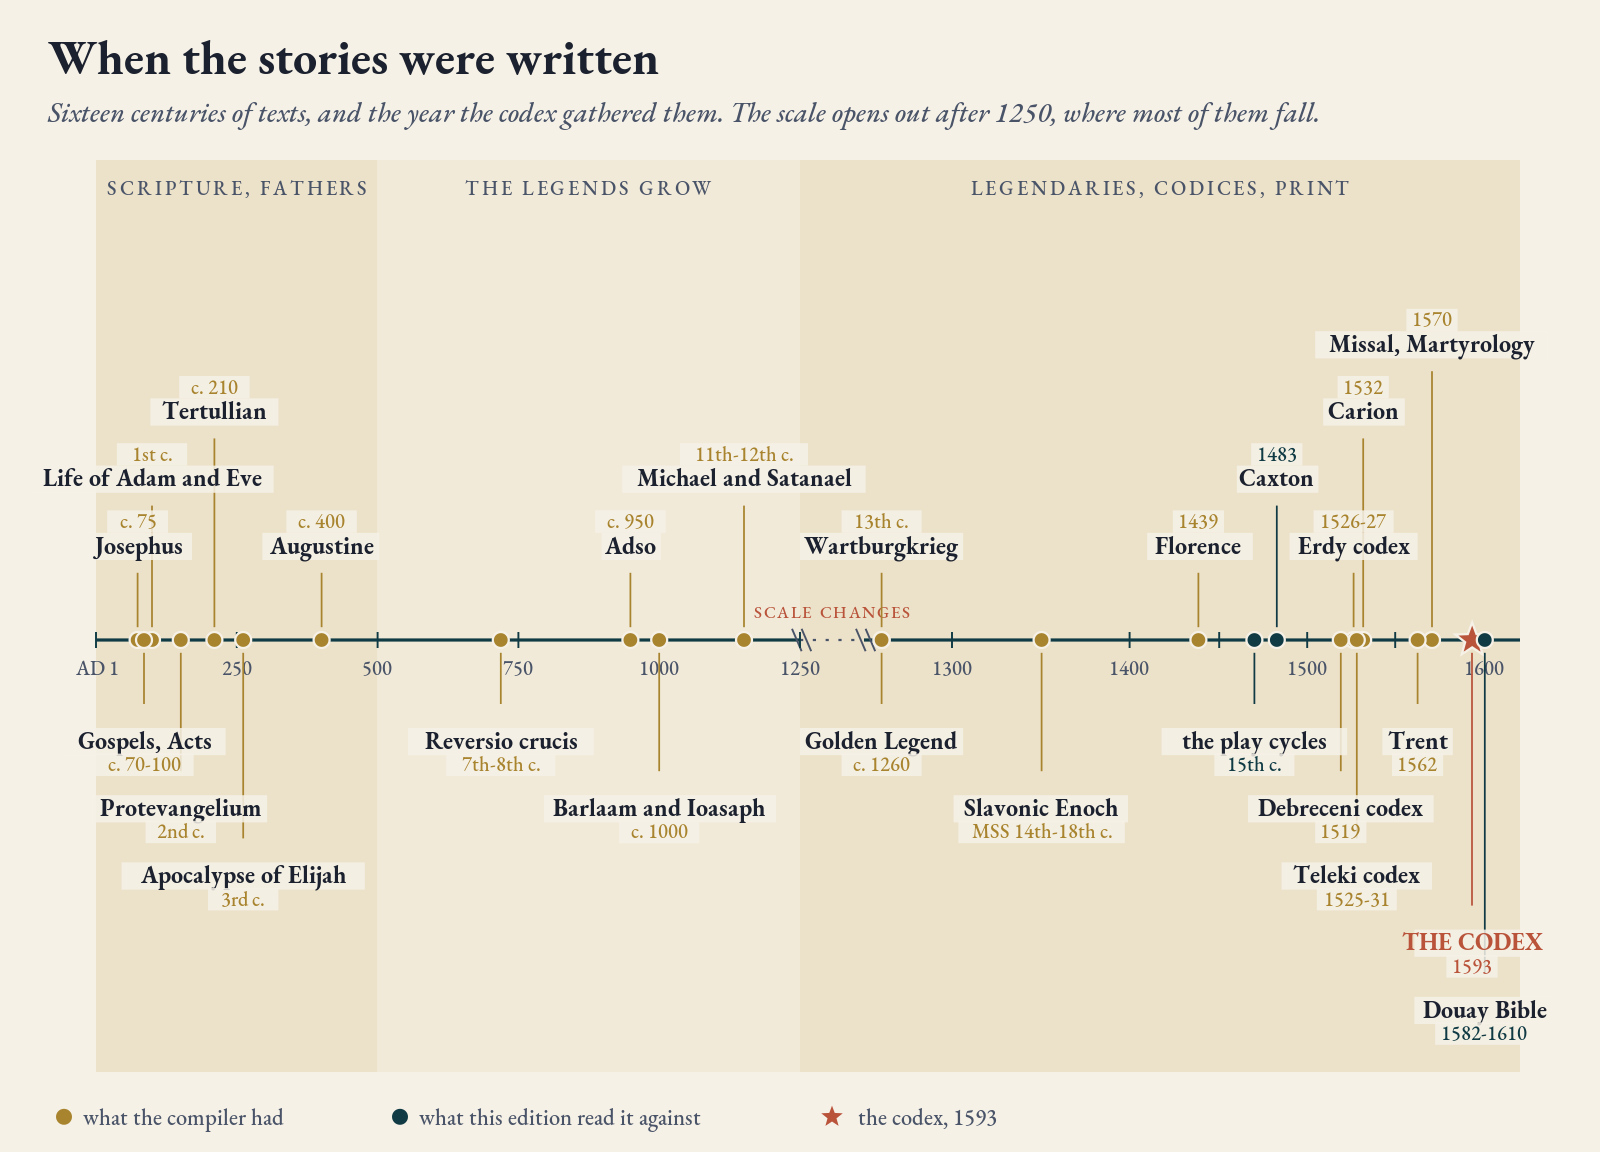
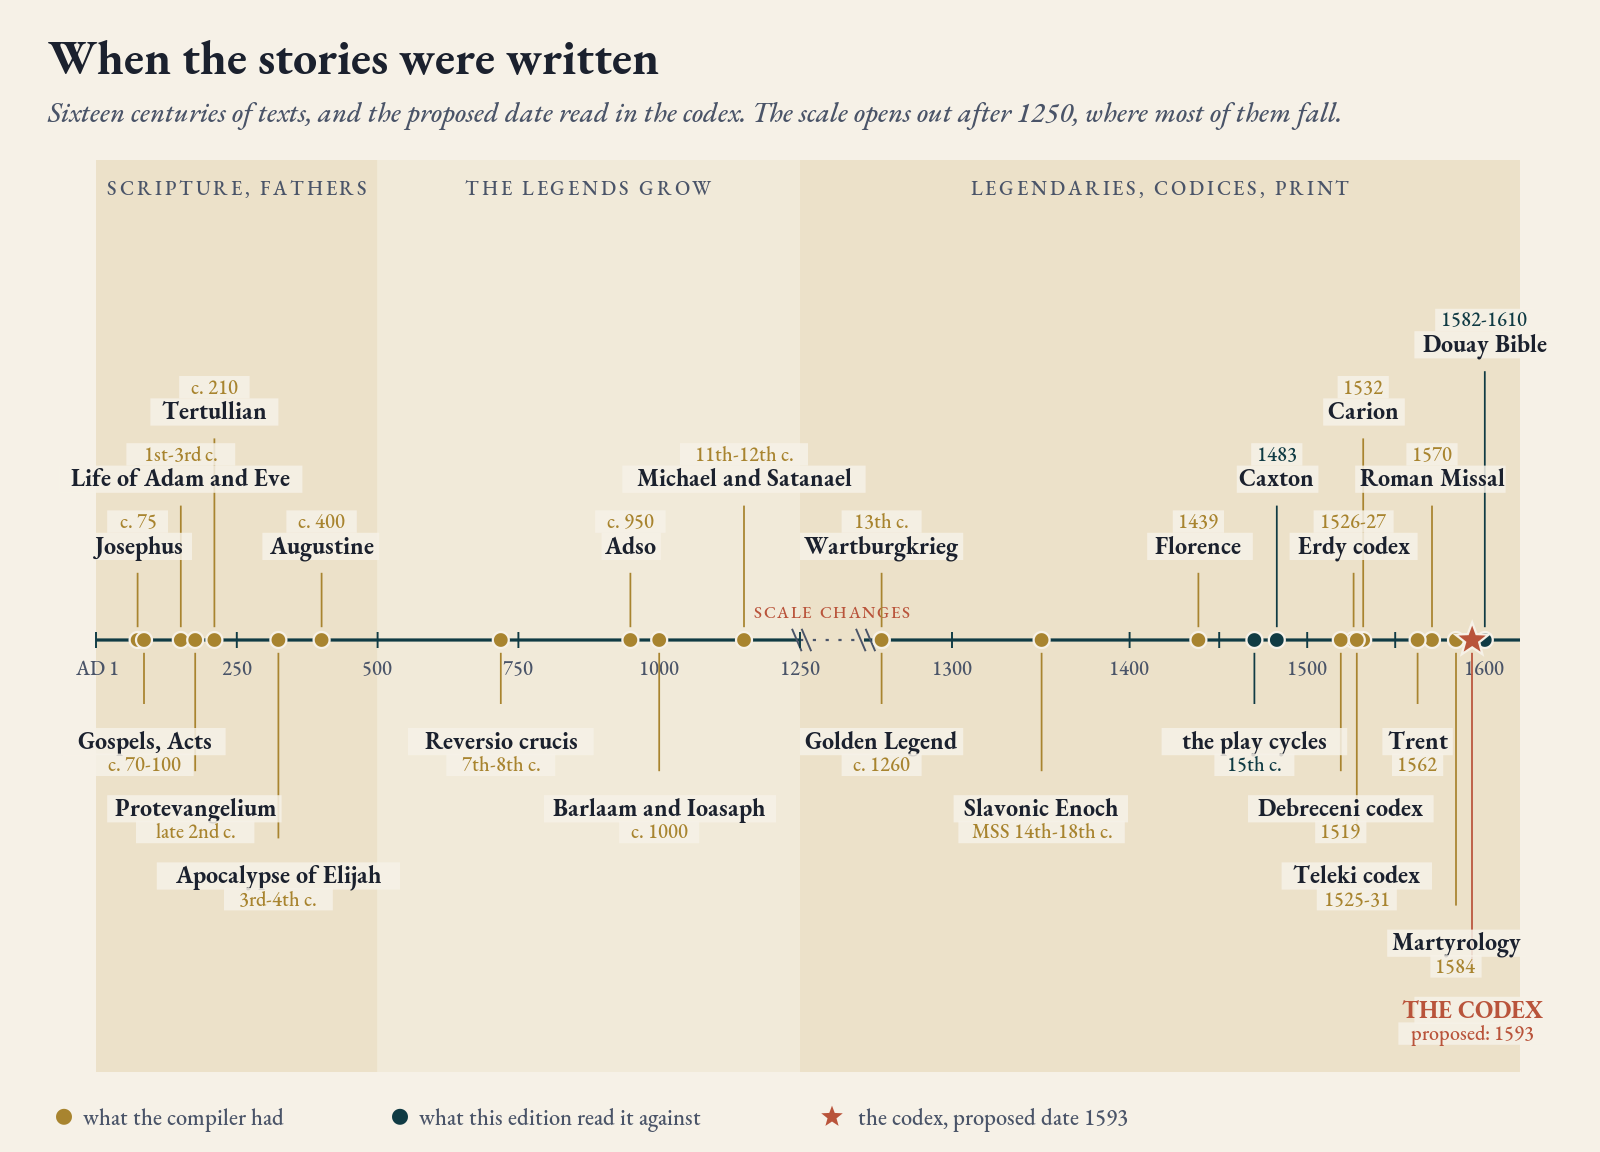
Atlas: the 1593 date marked as Kiraly and Tokai's proposed reading throughout, disputed origins left unpinned, Missal and Martyrology given their own dates, Debreceni codex placed at Obuda; ktatlascheck gates each against regression
Written by Codex.

diff --git a/harness/ktatlas.py b/harness/ktatlas.py
@@ -9,11 +9,11 @@ out of, drawn from atlas.json.
 Five plates, each an SVG with a viewBox only, so the site scales it to the
 column, and a PNG proof at 1600 wide for image search and for looking at:
 
-    hungary-1593      the kingdom in three parts in the year the codex counts to
+    hungary-1593      the kingdom in three parts at the proposed date read in the codex
     tongues           the languages and faiths around Rohonc, the presses, the scripts
     sources-map       where the books the codex is compiled from were written,
                       and where the witnesses this edition read it against come from
-    sources-timeline  when those texts were written, ending at 1593
+    sources-timeline  when those texts were written, ending at the proposed date 1593
     codex-timeline    the codex's own history, 1530s to now, with the attempts to read it
 
 Idiom: the Plaintext Classics infographic plates (parchment, EB Garamond, sea /
@@ -96,7 +96,7 @@ def glyph_row(sg, items, x, y, h, color=INK, gap=14, size=13):
 # ---------------------------------------------------------------- plate 1
 def plate_hungary(d):
     m = M.MapPlate(HU_BBOX, W=1000, H=780, pad_top=92, name="hu",
-                   title="Hungary in 1593, the year the codex counts to",
+                   title="Hungary in 1593, on the proposed reading",
                    subtitle="A kingdom in three parts, and the town the book is named for in its Habsburg west. Borders approximate.")
     m.draw_land(tol=0.015)
     m.draw_lakes()
@@ -128,10 +128,10 @@ def plate_hungary(d):
     m.label(17.5, 45.75, "Drava", italic=True, size=14, color="#5f8791", anchor="middle")
     m.label(17.75, 46.75, "Balaton", italic=True, size=13, color="#5f8791", anchor="middle")
     m.label(13.0, 44.4, "Adriatic Sea", italic=True, size=17, color=SEA, anchor="middle")
-    m.raw(ev_open("1593", "1593", "The codex's last leaves count one thousand five hundred and sixty years from the Ascension, which is 1593. That summer the Long Turkish War began between the Habsburgs and the Ottomans, and it ran until 1606. Rohonc lay about a hundred kilometres from the frontier at Kanizsa."))
+    m.raw(ev_open("The proposed reading: 1593", "1593", "On Kiraly and Tokai's reading, one of the codex's last leaves counts one thousand five hundred and sixty years from the Ascension, giving 1593. That summer the Long Turkish War began between the Habsburgs and the Ottomans, and it ran until 1606. Rohonc lay about a hundred kilometres from the frontier at Kanizsa."))
     m.callout(630, 100, 350, "1593", [
-        "The codex's last leaves count 1,560 years",
-        "from the Ascension: 1593.",
+        "On Kiraly and Tokai's reading, a last leaf",
+        "counts 1,560 years from the Ascension: 1593.",
         "That summer the Long Turkish War began",
         "(1593-1606). Rohonc lay about a hundred",
         "kilometres from the frontier at Kanizsa."], size=15.5)
@@ -146,7 +146,7 @@ def plate_tongues(d, sg):
     t = d["tongues"]
     m = M.MapPlate(HU_BBOX, W=1000, H=800, pad_top=92, name="tg",
                    title="The tongues and faiths around Rohonc, c. 1600",
-                   subtitle="Seven languages, six confessions, three scripts, and one book in a script of its own. Areas indicative, not surveyed.")
+                   subtitle="Seven mapped vernaculars, six confessions, three regional scripts, and one book in a script of its own. Areas indicative, not surveyed.")
     m.draw_land(tol=0.015)
     m.draw_lakes()
     m.draw_rivers(names=("Danube", "Tisza", "Tisa", "Drava"), width=1.6)
@@ -178,7 +178,7 @@ def plate_tongues(d, sg):
     bx, by, bw = 596, 98, 380
     m.raw(f'<rect x="{bx}" y="{by}" width="{bw}" height="150" rx="6" fill="{PARCH}" stroke="{TERRA}" stroke-width="1.5" opacity="0.97"/>')
     m.text_xy(bx + 14, by + 24, "THE CODEX'S OWN SCRIPT", size=13.5, color=TERRA, weight=700, spacing=1.6)
-    m.text_xy(bx + 14, by + 44, "Several hundred signs, mostly one sign to a word, written right to left.", size=13, color=INK)
+    m.text_xy(bx + 14, by + 44, "Several hundred signs; code units mostly stand for words; right to left.", size=13, color=INK)
     frag, w = glyph_row(sg, t["glyphs"], bx + 18, by + 54, 40, gap=22, size=12.5)
     m.raw(frag)
     m.text_xy(bx + bw - 12, by + 140, "signs after Kiraly and Tokai's font; glosses theirs", size=10.5, color=SOFT, italic=True, anchor="end")
@@ -192,7 +192,7 @@ def plate_tongues(d, sg):
     m.raw("</g>")
     # key: the confessions, then the scripts
     m.key([(f, c) for f, c in FAITH.items()], x=30, y=748, size=13.5, swatch="line")
-    m.text_xy(30, 771, "Scripts in use: Latin letters for all seven tongues; Cyrillic for Serbian, Romanian and Church Slavonic; "
+    m.text_xy(30, 771, "Scripts represented here: Latin letters across the seven mapped vernaculars; Cyrillic for Serbian, Romanian and Church Slavonic; "
                        "Arabic letters for Ottoman Turkish; and the codex's own signs, in one book.", size=12, color=SOFT)
     return m.render(credit=CREDIT_GEO)
 
@@ -208,7 +208,7 @@ LABEL_AT = {
     "Florence": (12, 12, "start"), "Trent": (-12, -4, "end"), "Wittenberg": (12, 2, "start"),
     "Douai": (-12, 2, "end"), "London": (-12, -8, "end"), "York": (-12, -6, "end"),
     "Lyon": (-12, 12, "end"), "Agreda": (12, 4, "start"), "Bucharest": (12, 12, "start"),
-    "Lund": (12, 2, "start"), "Debrecen": (12, -8, "start"), "Lovold": (-10, 30, "end"),
+    "Lund": (12, 2, "start"), "Debrecen": (12, -8, "start"), "Obuda": (12, -8, "start"), "Lovold": (-10, 30, "end"),
     "Marosvasarhely": (12, 16, "start"), "Szeged": (12, 16, "start"), "Budapest": (12, 4, "start"),
 }
 
@@ -216,7 +216,7 @@ LABEL_AT = {
 def plate_sources_map(d):
     m = M.MapPlate((-6.5, 29.4, 40.5, 56.8), W=1000, H=780, pad_top=92, name="src",
                    title="Where the stories came from",
-                   subtitle="Where the books the codex is compiled from were written, and where this edition's witnesses come from.")
+                   subtitle="Securely locatable books used by the codex and this edition; disputed origins are left unpinned.")
     m.draw_land(tol=0.03)
     by_place = {}
     for t in d["texts"]:
@@ -250,12 +250,12 @@ def plate_sources_map(d):
     m.key([("what the compiler had, written before 1593", GOLD),
            ("what this edition read it against", SEA),
            ("both", INK)], x=700, y=118, size=14, vertical=True)
-    return m.render(credit="Coastlines: Natural Earth (public domain). Where a text was written is given to the city or region the standard accounts name.")
+    return m.render(credit="Coastlines: Natural Earth (public domain). Pins mark documented or commonly proposed places of composition; works without a defensible single place are not plotted.")
 
 
 PLACE_NAMES = {"Montier": "Montier-en-Der", "Athos": "Mount Athos", "Tarnovo": "Bulgaria", "Kiev": "the Slavonic world",
                "Lovold": "Lovold", "Marosvasarhely": "Marosvasarhely", "Wartburg": "the Wartburg", "Agreda": "Agreda",
-               "Douai": "Douai and Rheims", "London": "London", "Budapest": "Budapest"}
+               "Douai": "Douai and Rheims", "London": "London", "Budapest": "Budapest", "Obuda": "Obuda"}
 
 
 # ---------------------------------------------------------------- timelines
@@ -340,7 +340,7 @@ def plate_sources_timeline(d):
     p = [f'<svg xmlns="http://www.w3.org/2000/svg" viewBox="0 0 {W} {H}" class="worldtl" {FONT} role="img" aria-label="When the codex\'s sources were written">',
          f'<rect width="{W}" height="{H}" fill="{PARCH}"/>',
          f'<text x="30" y="46" font-size="30" font-weight="600" fill="{INK}">When the stories were written</text>',
-         f'<text x="30" y="76" font-size="17" font-style="italic" fill="{SOFT}">Sixteen centuries of texts, and the year the codex gathered them. The scale opens out after 1250, where most of them fall.</text>']
+         f'<text x="30" y="76" font-size="17" font-style="italic" fill="{SOFT}">Sixteen centuries of texts, and the proposed date read in the codex. The scale opens out after 1250, where most of them fall.</text>']
     bands = [(0, 500, "SCRIPTURE, FATHERS", BAND1), (500, 1250, "THE LEGENDS GROW", BAND2), (1250, 1620, "LEGENDARIES, CODICES, PRINT", BAND1)]
     for a, b, lab, fill in bands:
         p.append(f'<rect x="{xs(a):.0f}" y="100" width="{xs(b) - xs(a):.0f}" height="{H - 150}" fill="{fill}"/>')
@@ -356,7 +356,7 @@ def plate_sources_timeline(d):
         if yr % 250 == 0 or yr % 100 == 0:
             p.append(f'<text x="{xs(yr):.0f}" y="{AX + 22}" text-anchor="middle" font-size="12.5" fill="{SOFT}">{yr if yr else "AD 1"}</text>')
     texts = sorted([t for t in d["texts"] if t["year"] <= 1600], key=lambda t: t["year"])
-    codex = {"short": "THE CODEX", "date": "1593", "year": 1593, "kind": "codex", "name": "The codex", "line": "", "desc": "The codex counts to 1593 on one of its last leaves. Everything on this plate that is gold was in its compiler's reach in Latin or in Hungarian by then."}
+    codex = {"short": "THE CODEX", "date": "proposed: 1593", "year": 1593, "kind": "codex", "name": "The codex", "line": "", "desc": "On Kiraly and Tokai's reading, one of the codex's last leaves gives 1593. Everything on this plate that is gold was in its compiler's reach in Latin or in Hungarian by then."}
     above = [t for i, t in enumerate(texts) if i % 2 == 0]
     below = [t for i, t in enumerate(texts) if i % 2 == 1] + [codex]
     col = lambda t: TERRA if t["kind"] == "codex" else GOLD if t["kind"] == "had" else SEA
@@ -368,7 +368,7 @@ def plate_sources_timeline(d):
     ky = H - 22
     p.append(f'<circle cx="40" cy="{ky}" r="5" fill="{GOLD}"/><text x="52" y="{ky + 5}" font-size="14" fill="{SOFT}">what the compiler had</text>')
     p.append(f'<circle cx="250" cy="{ky}" r="5" fill="{SEA}"/><text x="262" y="{ky + 5}" font-size="14" fill="{SOFT}">what this edition read it against</text>')
-    p.append(f'{_star(520, ky, 9, TERRA)}<text x="536" y="{ky + 5}" font-size="14" fill="{SOFT}">the codex, 1593</text>')
+    p.append(f'{_star(520, ky, 9, TERRA)}<text x="536" y="{ky + 5}" font-size="14" fill="{SOFT}">the codex, proposed date 1593</text>')
     p.append('</svg>')
     return "\n".join(p)
 
@@ -421,10 +421,10 @@ def plate_codex_timeline(d):
 
 # ---------------------------------------------------------------- build
 PLATES = [
-    ("hungary-1593", "Hungary in 1593", "The kingdom in three parts in the year the codex counts to, with Rohonc in its Habsburg west."),
-    ("tongues", "Tongues and faiths", "Seven languages, six confessions and three scripts around one town, and a book in a script of its own."),
-    ("sources-map", "Where the stories came from", "The books the codex is compiled from, where they were written, flowing to Rohonc; and where this edition's witnesses come from."),
-    ("sources-timeline", "When the stories were written", "Sixteen centuries of texts, ending at the year the codex gathered them."),
+    ("hungary-1593", "Hungary in 1593", "The kingdom in three parts at the date proposed by Kiraly and Tokai, with Rohonc in its Habsburg west."),
+    ("tongues", "Tongues and faiths", "Seven mapped vernaculars, six confessions and three regional scripts around one town, and a book in a script of its own."),
+    ("sources-map", "Where the stories came from", "The securely locatable books used by the codex and this edition, flowing to Rohonc."),
+    ("sources-timeline", "When the stories were written", "Sixteen centuries of texts, ending at the proposed date read in the codex."),
     ("codex-timeline", "The codex, from the paper to the present", "The book above the line and the people who tried to read it below, with the last sixty years enlarged."),
 ]
 

diff --git a/harness/ktatlascheck.py b/harness/ktatlascheck.py
@@ -17,6 +17,9 @@ What it refuses, declared before it ran:
   4. A saved SVG that does not parse as XML, or that carries a duplicate id
      (five plates sit inline on one page).
   5. A site copy key the Atlas page needs that is not in ktsite_copy.json.
+  6. A regression to the factual errors corrected in the 2026-09-23 audit:
+     pages called folios, glossed dictionary codes called signs, the Missal and
+     Martyrology given one date, or disputed origins plotted as certain.
 """
 import json
 import os
@@ -115,6 +118,28 @@ def main():
     for k in ("atlas_lead", "card_atlas"):
         if not cp.get(k):
             fails.append(f"ktsite_copy.json: no {k}")
+
+    # 6. factual regressions found in the source audit
+    events = " ".join(e["label"] + " " + e["desc"] for e in d["events"])
+    for bad in ("441 folios", "841 signs read", "Rohonc becomes Rechnitz"):
+        if bad in events:
+            fails.append(f"factual regression in events: {bad!r}")
+    if "proposed" not in next(e for e in d["events"] if e["year"] == 1593)["label"].lower():
+        fails.append("the 1593 event is no longer identified as a proposed reading")
+
+    texts = {t["name"]: t for t in d["texts"]}
+    expected = {"The Roman Missal": 1570, "The Roman Martyrology": 1584}
+    for name, year in expected.items():
+        if name not in texts or texts[name].get("year") != year:
+            fails.append(f"{name}: expected a separate {year} entry")
+    if texts.get("The Debreceni codex", {}).get("place") != "Obuda":
+        fails.append("The Debreceni codex must be located at its place of production, Obuda")
+    for name in ("The Gospels and Acts", "The Life of Adam and Eve",
+                 "The Protevangelium of James", "The Apocalypse of Elijah",
+                 "The Reversio sanctae crucis",
+                 "The York, Chester, Towneley and N-Town plays"):
+        if texts.get(name, {}).get("map", True):
+            fails.append(f"{name}: disputed or multiple origins must not be plotted as one certain place")
 
     for f in fails:
         print("FAIL", f)
